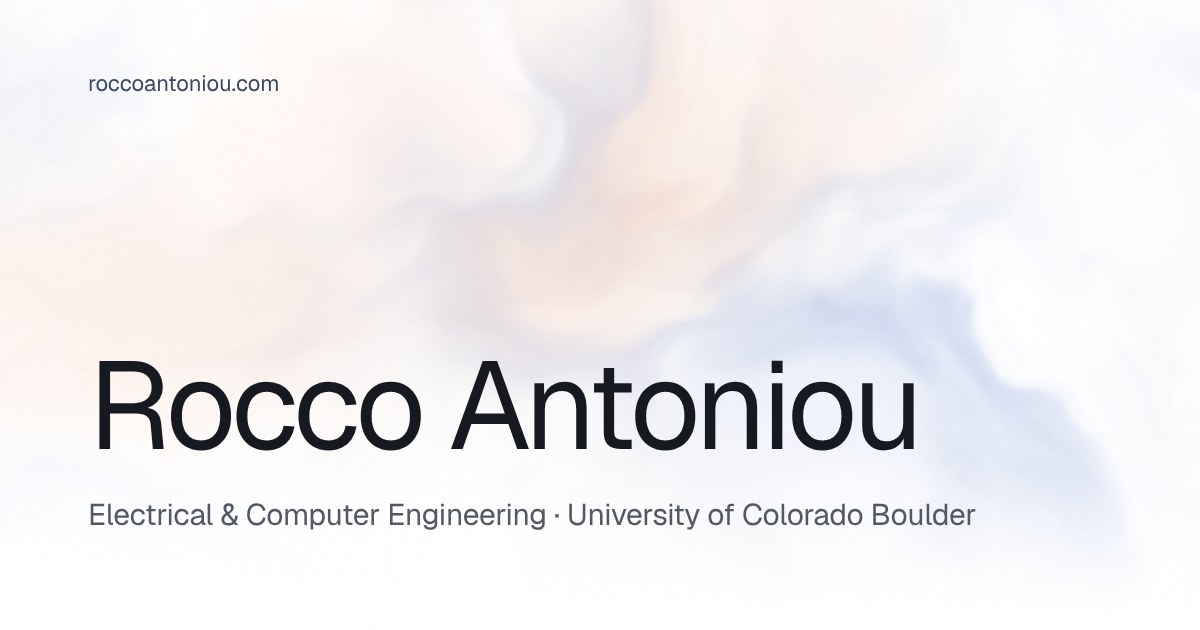
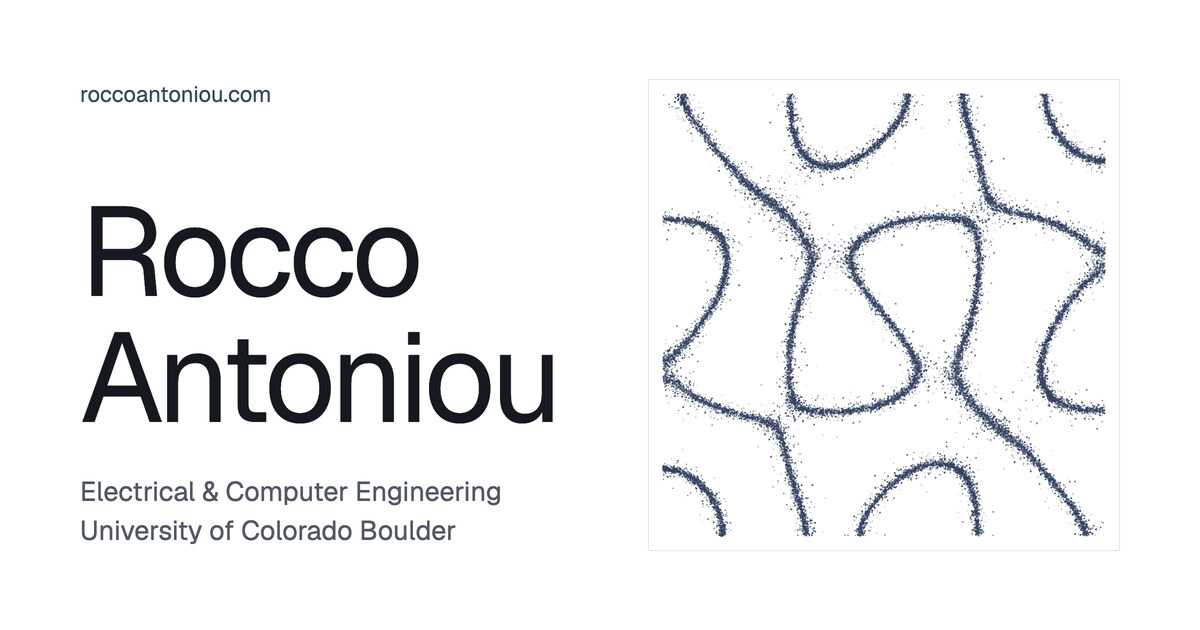
Redraw the link preview image with the Chladni plate
The hero's smoke shader was replaced, so the preview now shows the new
plate. Same wording and light theme; the alt text is updated to match.

Changed region(s): [[0.0617, 0.0, 0.925, 0.8746], [0.0617, 0.1206, 0.2467, 0.181], [0.8633, 0.1508, 0.925, 0.2714]]

diff --git a/index.html b/index.html
@@ -22,7 +22,7 @@
   <meta property="og:image" content="https://roccoantoniou.com/images/og-image.jpg" />
   <meta property="og:image:width" content="1200" />
   <meta property="og:image:height" content="630" />
-  <meta property="og:image:alt" content="Rocco Antoniou, Electrical & Computer Engineering, University of Colorado Boulder, over a soft slate and peach gradient." />
+  <meta property="og:image:alt" content="Rocco Antoniou, Electrical & Computer Engineering, University of Colorado Boulder, beside a Chladni plate with sand settled into curved lines." />
   <meta name="twitter:card" content="summary_large_image" />
   <meta name="twitter:title" content="Rocco Antoniou" />
   <meta name="twitter:description" content="Electrical & Computer Engineering student at the University of Colorado Boulder." />
